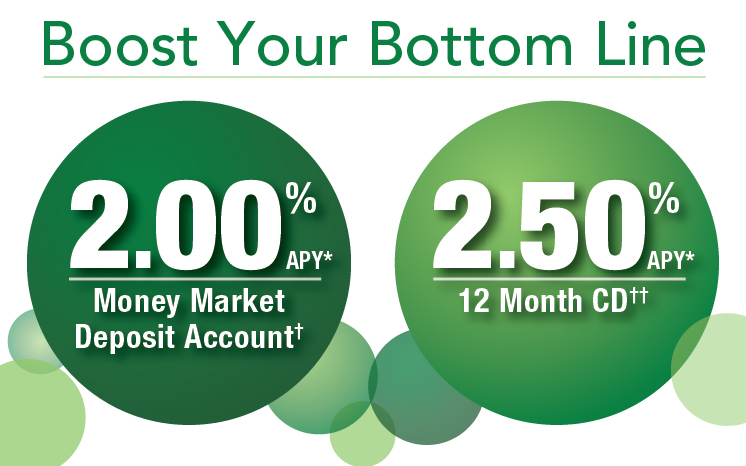
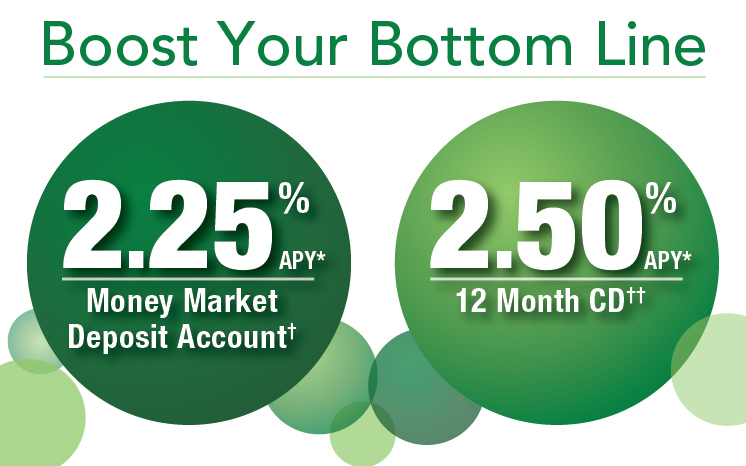
Updated images and changed rates to 2.25

diff --git a/savings.html b/savings.html
@@ -138,7 +138,7 @@
               </div>
             </div><!-- row -->
             <div class="row spacer">
-              <p class="small para-margin"><sup>*</sup>Annual Percentage Yield (APY) <sup>†</sup>Money Market Deposit Account: Promotional rate of 2.00% APY for new accounts effective as of 10/15/18 and guaranteed for the first 365 days after account opening. Promotional rate offered on $10,000.00 or more of new money not currently on deposit within last 30 days with CIBM Bank. Minimum opening deposit of $100.00. The interest rate is subject to change at any time after initial 365 days. As of 10/10/18 Personal Money Market balances of $0.00-$9,999.99 (.08% APY); $10,000.00-$24,999.99 (.10% APY); $25,000.00-$49,999.99 (.13% APY); $50,000.00-$99,999.99 (.14% APY); $100,000.00 and above (.15% APY). Monthly fee $2.00 per debit if $1,000.00 minimum balance not maintained. As of 10/10/18 Business Money Market balances of $0.00-$9,999.99 (.08% APY); $10,000.00-$24,999.99 (.10% APY); $25,000.00-$49,999.99 (.13% APY); $50,000.00-$99,999.99 (.14% APY); $100,000.00 and above (.15% APY). Monthly fee $15.00 service charge if $5,000.00 minimum balance not maintained. Fees may reduce earnings. Accounts closed within 6 months of opening date subject to a $25.00 closing fee.  <sup>††</sup>12 Month Certificate of Deposit & IRA: Promotional rate of 2.50% (APY) effective as of 10/29/18 and guaranteed for the term of the account. Offer limited to $10,000.00 or more of new money not currently on deposit within last 30 days with CIBM Bank. Minimum opening deposit of $2,500.00 and a maximum of $250,000.00. Withdrawals made prior to maturity may be subject to an early withdrawal penalty. Offer not available in combination with any other offer.</p>
+              <p class="small para-margin"><sup>*</sup>Annual Percentage Yield (APY) <sup>†</sup>Money Market Deposit Account: Promotional rate of 2.25% APY for new accounts effective as of 11/11/18 and guaranteed for the first 365 days after account opening. Promotional rate offered on $10,000.00 or more of new money not currently on deposit within last 30 days with CIBM Bank. Minimum opening deposit of $100.00. The interest rate is subject to change at any time after initial 365 days. As of 10/10/18 Personal Money Market balances of $0.00-$9,999.99 (.08% APY); $10,000.00-$24,999.99 (.10% APY); $25,000.00-$49,999.99 (.13% APY); $50,000.00-$99,999.99 (.14% APY); $100,000.00 and above (.15% APY). Monthly fee $2.00 per debit if $1,000.00 minimum balance not maintained. As of 10/10/18 Business Money Market balances of $0.00-$9,999.99 (.08% APY); $10,000.00-$24,999.99 (.10% APY); $25,000.00-$49,999.99 (.13% APY); $50,000.00-$99,999.99 (.14% APY); $100,000.00 and above (.15% APY). Monthly fee $15.00 service charge if $5,000.00 minimum balance not maintained. Fees may reduce earnings. Accounts closed within 6 months of opening date subject to a $25.00 closing fee.  <sup>††</sup>12 Month Certificate of Deposit & IRA: Promotional rate of 2.50% (APY) effective as of 10/29/18 and guaranteed for the term of the account. Offer limited to $10,000.00 or more of new money not currently on deposit within last 30 days with CIBM Bank. Minimum opening deposit of $2,500.00 and a maximum of $250,000.00. Withdrawals made prior to maturity may be subject to an early withdrawal penalty. Offer not available in combination with any other offer.</p>
             </div><!-- row -->
             <div class="row spacer">
               <div class="col-md-6">
